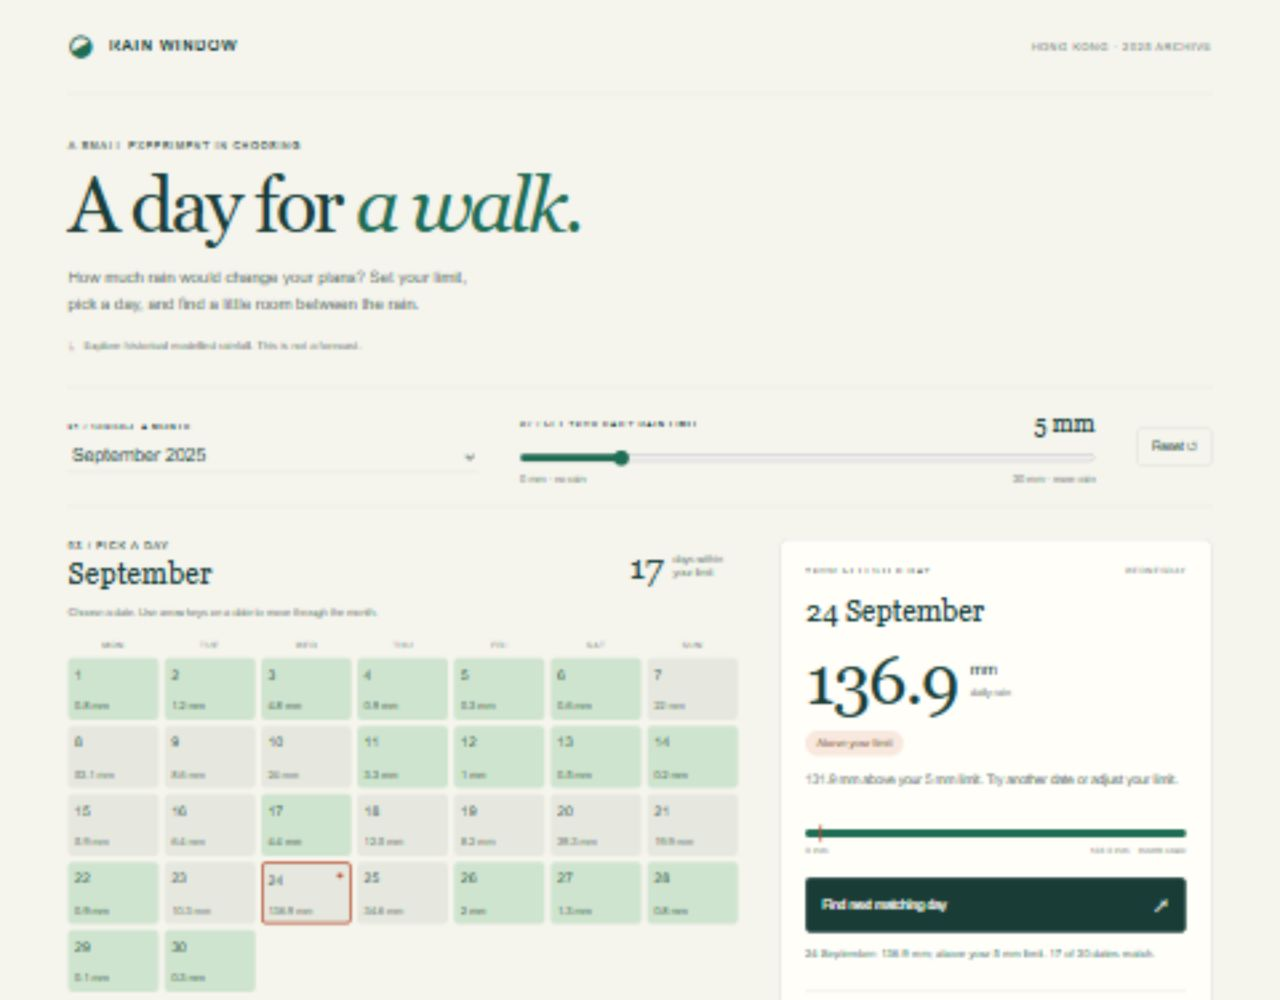
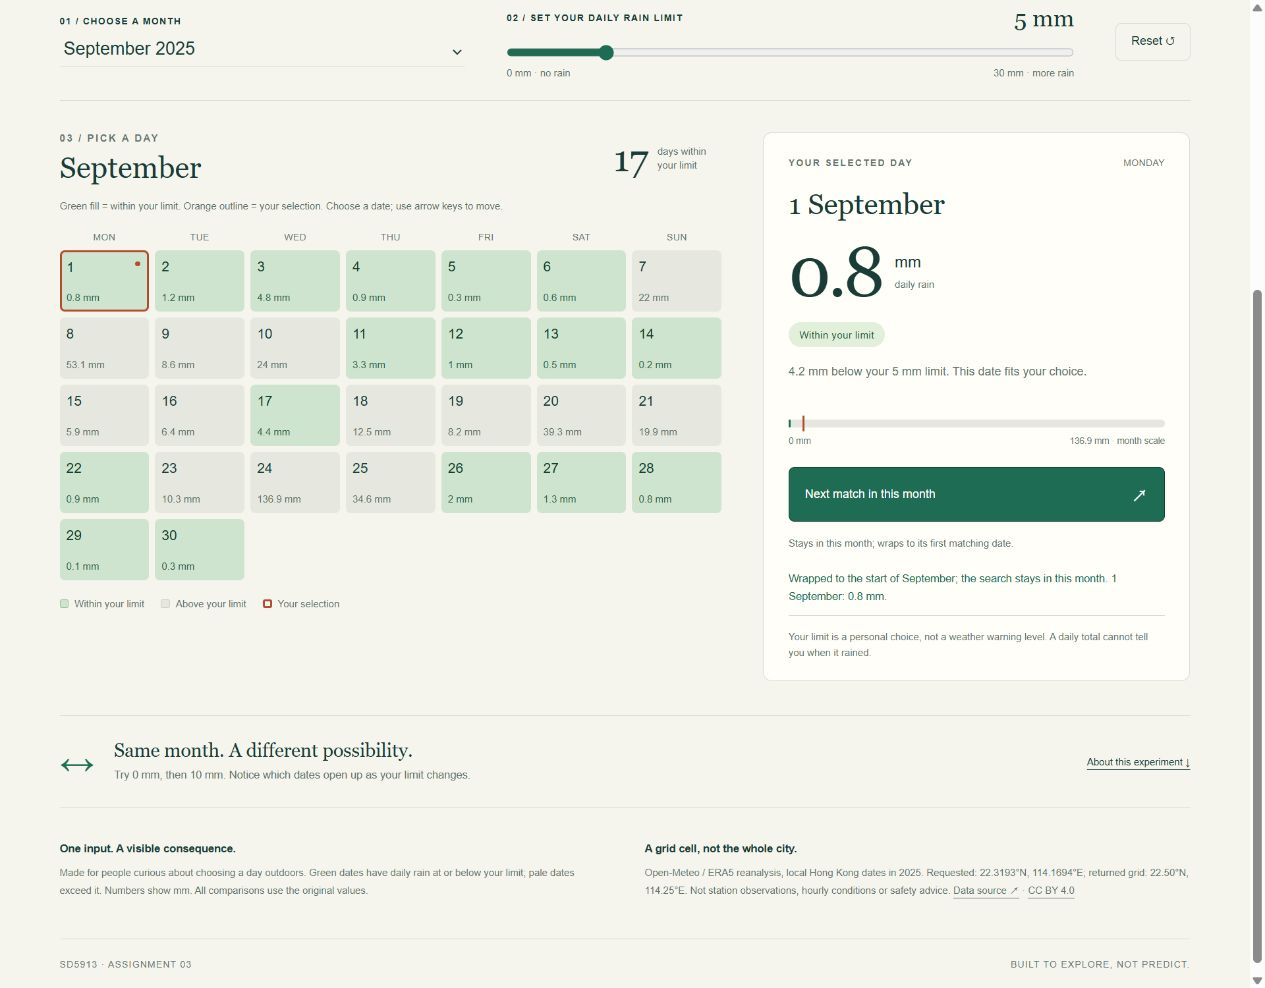
docs: record relayed classmate feedback and clarify calendar controls

diff --git a/rain-window/index.html b/rain-window/index.html
@@ -18,8 +18,8 @@
     <div id="load-error" class="error-panel" role="alert" hidden><h2>The archive could not be opened.</h2><p id="error-detail">Check that the data file is present and serve this folder using the README instructions.</p><button id="retry" type="button">Try again</button></div>
     <div id="experience" hidden>
       <section class="controls" aria-label="Choose your conditions"><div class="month-field"><label for="month">01 / CHOOSE A MONTH</label><select id="month" name="month"><option value="1">January 2025</option><option value="2">February 2025</option><option value="3">March 2025</option><option value="4">April 2025</option><option value="5">May 2025</option><option value="6">June 2025</option><option value="7">July 2025</option><option value="8">August 2025</option><option value="9" selected>September 2025</option><option value="10">October 2025</option><option value="11">November 2025</option><option value="12">December 2025</option></select></div><div class="limit-field"><div class="limit-label"><label for="limit">02 / SET YOUR DAILY RAIN LIMIT</label><output id="limit-output" for="limit">5 mm</output></div><input id="limit" type="range" min="0" max="30" step="0.5" value="5" aria-describedby="limit-help"><div class="range-labels" id="limit-help"><span>0 mm · no rain</span><span>30 mm · more rain</span></div></div><button class="reset" id="reset" type="button">Reset ↺</button></section>
-      <div class="workspace"><section class="calendar-panel" aria-labelledby="month-title"><div class="section-heading"><div><p class="eyebrow">03 / PICK A DAY</p><h2 id="month-title">September</h2></div><p class="match-count"><strong id="match-count">—</strong><span>days within your limit</span></p></div><p class="calendar-help" id="calendar-help">Choose a date. Use arrow keys on a date to move through the month.</p><div class="weekdays" aria-hidden="true"><span>MON</span><span>TUE</span><span>WED</span><span>THU</span><span>FRI</span><span>SAT</span><span>SUN</span></div><div class="calendar" id="calendar" role="group" aria-label="Daily modelled rainfall" aria-describedby="calendar-help"></div><div class="legend"><span><i class="legend-dot match"></i>Within your limit</span><span><i class="legend-dot above"></i>Above your limit</span><span><i class="legend-dot selected"></i>Selected</span></div></section>
-      <aside class="day-panel" aria-labelledby="day-title"><div class="day-topline"><span class="eyebrow">YOUR SELECTED DAY</span><span id="day-weekday">WEDNESDAY</span></div><h2 id="day-title">24 September</h2><div class="rain-reading"><span id="rain-value">136.9</span><span class="rain-unit">mm<br><small>daily rain</small></span></div><div class="status-pill" id="day-status">Above your limit</div><p id="comparison" class="comparison">Choose a day to compare it with your limit.</p><div class="rain-meter" aria-hidden="true"><div id="rain-fill"></div><span id="limit-marker"></span></div><div class="meter-label"><span>0 mm</span><span id="meter-max">—</span></div><button id="find-next" class="primary" type="button">Find next matching day <span aria-hidden="true">↗</span></button><p class="action-feedback" id="feedback" role="status" aria-live="polite" aria-atomic="true"></p><p class="small-note">Your limit is a personal choice, not a weather warning level. A daily total cannot tell you when it rained.</p></aside></div>
+      <div class="workspace"><section class="calendar-panel" aria-labelledby="month-title"><div class="section-heading"><div><p class="eyebrow">03 / PICK A DAY</p><h2 id="month-title">September</h2></div><p class="match-count"><strong id="match-count">—</strong><span>days within your limit</span></p></div><p class="calendar-help" id="calendar-help">Green fill = within your limit. Orange outline = your selection. Choose a date; use arrow keys to move.</p><div class="weekdays" aria-hidden="true"><span>MON</span><span>TUE</span><span>WED</span><span>THU</span><span>FRI</span><span>SAT</span><span>SUN</span></div><div class="calendar" id="calendar" role="group" aria-label="Daily modelled rainfall" aria-describedby="calendar-help"></div><div class="legend"><span><i class="legend-dot match"></i>Within your limit</span><span><i class="legend-dot above"></i>Above your limit</span><span><i class="legend-dot selected"></i>Your selection</span></div></section>
+      <aside class="day-panel" aria-labelledby="day-title"><div class="day-topline"><span class="eyebrow">YOUR SELECTED DAY</span><span id="day-weekday">WEDNESDAY</span></div><h2 id="day-title">24 September</h2><div class="rain-reading"><span id="rain-value">136.9</span><span class="rain-unit">mm<br><small>daily rain</small></span></div><div class="status-pill" id="day-status">Above your limit</div><p id="comparison" class="comparison">Choose a day to compare it with your limit.</p><div class="rain-meter" aria-hidden="true"><div id="rain-fill"></div><span id="limit-marker"></span></div><div class="meter-label"><span>0 mm</span><span id="meter-max">—</span></div><button id="find-next" class="primary" type="button" aria-describedby="search-help">Next match in this month <span aria-hidden="true">↗</span></button><p class="calendar-help" id="search-help">Stays in this month; wraps to its first matching date.</p><p class="action-feedback" id="feedback" role="status" aria-live="polite" aria-atomic="true"></p><p class="small-note">Your limit is a personal choice, not a weather warning level. A daily total cannot tell you when it rained.</p></aside></div>
       <section class="reflection"><span class="reflection-symbol" aria-hidden="true">↔</span><div><h2>Same month. A different possibility.</h2><p>Try 0 mm, then 10 mm. Notice which dates open up as your limit changes.</p></div><a href="#about">About this experiment ↓</a></section>
     </div>
     <footer id="about"><div><h2>One input. A visible consequence.</h2><p>Made for people curious about choosing a day outdoors. Green dates have daily rain at or below your limit; pale dates exceed it. Numbers show mm. All comparisons use the original values.</p></div><div><h2>A grid cell, not the whole city.</h2><p>Open-Meteo / ERA5 reanalysis, local Hong Kong dates in 2025. Requested: 22.3193°N, 114.1694°E; returned grid: 22.50°N, 114.25°E. Not station observations, hourly conditions or safety advice. <a href="https://open-meteo.com/en/docs/historical-weather-api">Data source ↗</a> · <a href="https://creativecommons.org/licenses/by/4.0/">CC BY 4.0</a></p></div><p class="footer-line">SD5913 · ASSIGNMENT 03 <span>BUILT TO EXPLORE, NOT PREDICT.</span></p></footer>

diff --git a/rain-window/app.js b/rain-window/app.js
@@ -89,7 +89,10 @@ $('find-next').addEventListener('click', () => {
   }
   const previous = state.day;
   state.day = found.day;
-  const lead = found.day === previous ? 'This is the only matching date.' : found.day < previous ? 'Wrapped to the start of the month.' : 'Found your next matching date.';
+  const month = monthNames[state.month - 1];
+  const lead = found.day === previous ? `This is the only matching date in ${month}.`
+    : found.day < previous ? `Wrapped to the start of ${month}; the search stays in this month.`
+    : `Next match in ${month}.`;
   render(`${lead} ${dateLabel(found)}: ${found.rain.toFixed(1)} mm.`);
 });
 $('calendar').addEventListener('keydown', event => {

diff --git a/rain-window/PROCESS.md b/rain-window/PROCESS.md
@@ -2,7 +2,7 @@
 
 ## Starting idea — 31 October 2026
 
-The student requested a new Assignment 3 folder inside the existing SD5913 repository. The brief asks for an input–response–feedback loop rather than a static image. Codex proposed extending the previous rainfall calendar into a focused retrospective experiment for a person curious about choosing a day outdoors: change the amount of rain you would accept and inspect how the set of eligible days changes. The student requested the assignment work but has not yet supplied feedback on this particular design.
+The student requested a new Assignment 3 folder inside the existing SD5913 repository. The brief asks for an input–response–feedback loop rather than a static image. Codex proposed extending the previous rainfall calendar into a focused retrospective experiment for a person curious about choosing a day outdoors: change the amount of rain you would accept and inspect how the set of eligible days changes. The initial concept was proposed by Codex; the later feedback relayed by the student is recorded below.
 
 ## First working implementation
 
@@ -14,17 +14,25 @@ This is a new interaction built on Assignment 2's data, not an unchanged static 
 
 Codex proposed the concept and wrote the implementation, documentation and tests, and assisted with verification. A suggestion retained was a single daily-rain slider, because its consequence can be seen in the set of matching dates. A suggestion changed was to frame this as a current rain-day planner: the data is historical, so the interface explicitly presents an archive experiment and makes no forecast claims. A dependency-heavy charting framework was rejected in favour of plain date buttons and pure comparison functions, making it easier to run and explain.
 
-## Trial with another person — pending
+## Classmate feedback relayed by the student — recorded 31 October 2026
 
-No other-person trial has been observed or reported yet. Automated checks and Codex browser testing are implementation verification; neither is presented as a human participant trial.
+The student supplied the following wording and attributed it to a classmate who tried the experience. Codex did not observe the session. The session date, initial task instructions and whether an explanation was given beforehand were not supplied, so those details are not asserted here. No name or recording is included.
 
-Suggested neutral task: give someone the running page without a walkthrough and ask, “Find a day you would choose for a walk.” Observe which control they use first, whether they understand the selected date versus matching dates, what they expect from the next-date button, and how they recover when there are no matches. Do not coach them before their first attempt.
+> 滑块挺容易理解，拖一下就能看到哪些日期符合条件。不过一开始我以为橙色框代表推荐日期，后来才明白它表示当前选中的日期。‘找下一个’会不会跳到下个月，我也有点不确定。
 
-Record the actual date, what they tried, a hesitation or comment, and the resulting design change or reason for keeping the design. Names, recordings and personal information are not needed. This section remains pending until that real evidence is available; no participant feedback has been invented.
+In English: the slider and its effect on matching dates were easy to understand, but the orange outline initially looked like a recommendation rather than the current selection. The participant was also unsure whether the next-date action could move into another month.
+
+### Decision and implemented response
+
+- Keep the slider and immediate date filtering: the reported feedback indicates this relationship was understandable.
+- Explain the orange outline beside the calendar: “Green fill = within your limit. Orange outline = your selection.” Rename its legend entry to “Your selection.”
+- Rename the action to “Next match in this month” and add persistent help explaining that it stays in the current month and wraps to that month's first matching date. Name the month in the result message as well.
+
+These are wording changes addressing the two reported uncertainties. The selection and search rules remain the same. Codex checked the revised labels at desktop and mobile widths, and confirmed that searching after 30 September selects 1 September while keeping September selected. The existing ten tests still passed. Updated screenshots show the new help and action label. No follow-up classmate trial or improvement in participant performance is claimed.
 
 ## Development history
 
-The first commit records the interaction source and original concept. A follow-up records the portability fix, verification, accessibility and recovery refinements, and the README screenshots. Commit dates represent actual development; no earlier dates are fabricated.
+The first commit records the interaction source and original concept. A follow-up records the portability fix, verification, accessibility and recovery refinements, and the README screenshots. A further commit records the student-relayed feedback and the resulting label improvements. Commit dates represent actual development; no earlier dates are fabricated.
 
 ## Observed implementation issue and revision
 
@@ -39,4 +47,4 @@ The calendar also gained arrow/Home/End navigation and a single Tab stop on the 
 - The new project's JSON copy was temporarily moved, producing a clear HTTP 404 message with unavailable controls hidden. After restoring the file, Try again recovered the calendar. The data checksum still matched the original. The source snapshot in Assignment 2 was never moved or changed.
 - Desktop (1280 px) and mobile (390 px) layouts had no horizontal overflow. Mobile date selection updated the result to 26 September, 2.0 mm, within the 5 mm limit. Captured screenshots are in `screenshots/`.
 
-These checks were performed by Codex and automation. The other-person trial above is still pending and must not be inferred from these results. The student should also review the work and be ready to explain `nextMatch` in `engine.js`: it searches forward, wraps once through the month and returns the next day whose rain is at or below the chosen limit; the click handler then updates the selected date and visible feedback.
+These checks were performed by Codex and automation and are separate from the student-relayed feedback above. A follow-up classmate trial of the revised wording has not been reported. The student should also review the work and be ready to explain `nextMatch` in `engine.js`: it searches forward, wraps once through the month and returns the next day whose rain is at or below the chosen limit; the click handler then updates the selected date and visible feedback.

diff --git a/rain-window/README.md b/rain-window/README.md
@@ -22,8 +22,8 @@ Open <http://127.0.0.1:8000/>. Stop the server with Ctrl+C. If running from the 
 
 1. Choose a month and set a daily rain limit from 0 to 30 mm.
 2. Green dates have rain **at or below** that limit; other dates are above it. Every date shows the original daily amount, so colour is not the only feedback.
-3. Select a date to see its exact rain and the difference from your limit. Orange outlines the selection independently of whether it matches.
-4. Use **Find next matching day** to search forward within the month. The search wraps to the beginning with an explicit message. With no match, it suggests changing the limit or month. Repeated clicks move through matches; there are no network requests or accumulated side effects.
+3. Select a date to see its exact rain and the difference from your limit. The calendar help and legend explicitly identify the orange outline as your selection, independently of whether it matches.
+4. Use **Next match in this month** to search forward within the month. The search wraps to the beginning with an explicit message. With no match, it suggests changing the limit or month. Repeated clicks move through matches; there are no network requests or accumulated side effects.
 5. **Reset** restores 24 September and a 5 mm limit. No choices are persisted or transmitted.
 
 Keyboard: Tab moves between the month, slider, Reset, the selected date and the next-date button. Use the slider's arrow keys to change the limit, and arrow keys on a date to move one day or one week. Home/End selects the first/last day of the month. Date buttons announce the amount and whether it matches; a live status reports the result. The current calendar selection is one Tab stop, so reaching the next action does not require tabbing through every date.
@@ -51,4 +51,4 @@ The earlier assignment supplied the data and calendar idea. This new folder is i
 
 A daily total hides the time and duration of rain. One reanalysis grid cell is not a station observation or a citywide average. Matching a personal threshold says nothing about warnings, comfort or safety. The archive covers 2025 only. There is no hosted live version configured; the source can run locally with the command above.
 
-The assignment requires a trial with another person. That trial is pending and must be recorded from real observation before claiming the full assignment is complete. This folder lives inside the requested public course repository; submit the repository URL with a pointer to `rain-window/` and check any instructor-specific repository layout requirements.
+Classmate feedback relayed by the student is recorded in [PROCESS.md](PROCESS.md), together with the resulting selection-label and search-scope improvements. The revised wording has not yet been re-tested by that classmate. This folder lives inside the requested public course repository; submit the repository URL with a pointer to `rain-window/` and check any instructor-specific repository layout requirements.
